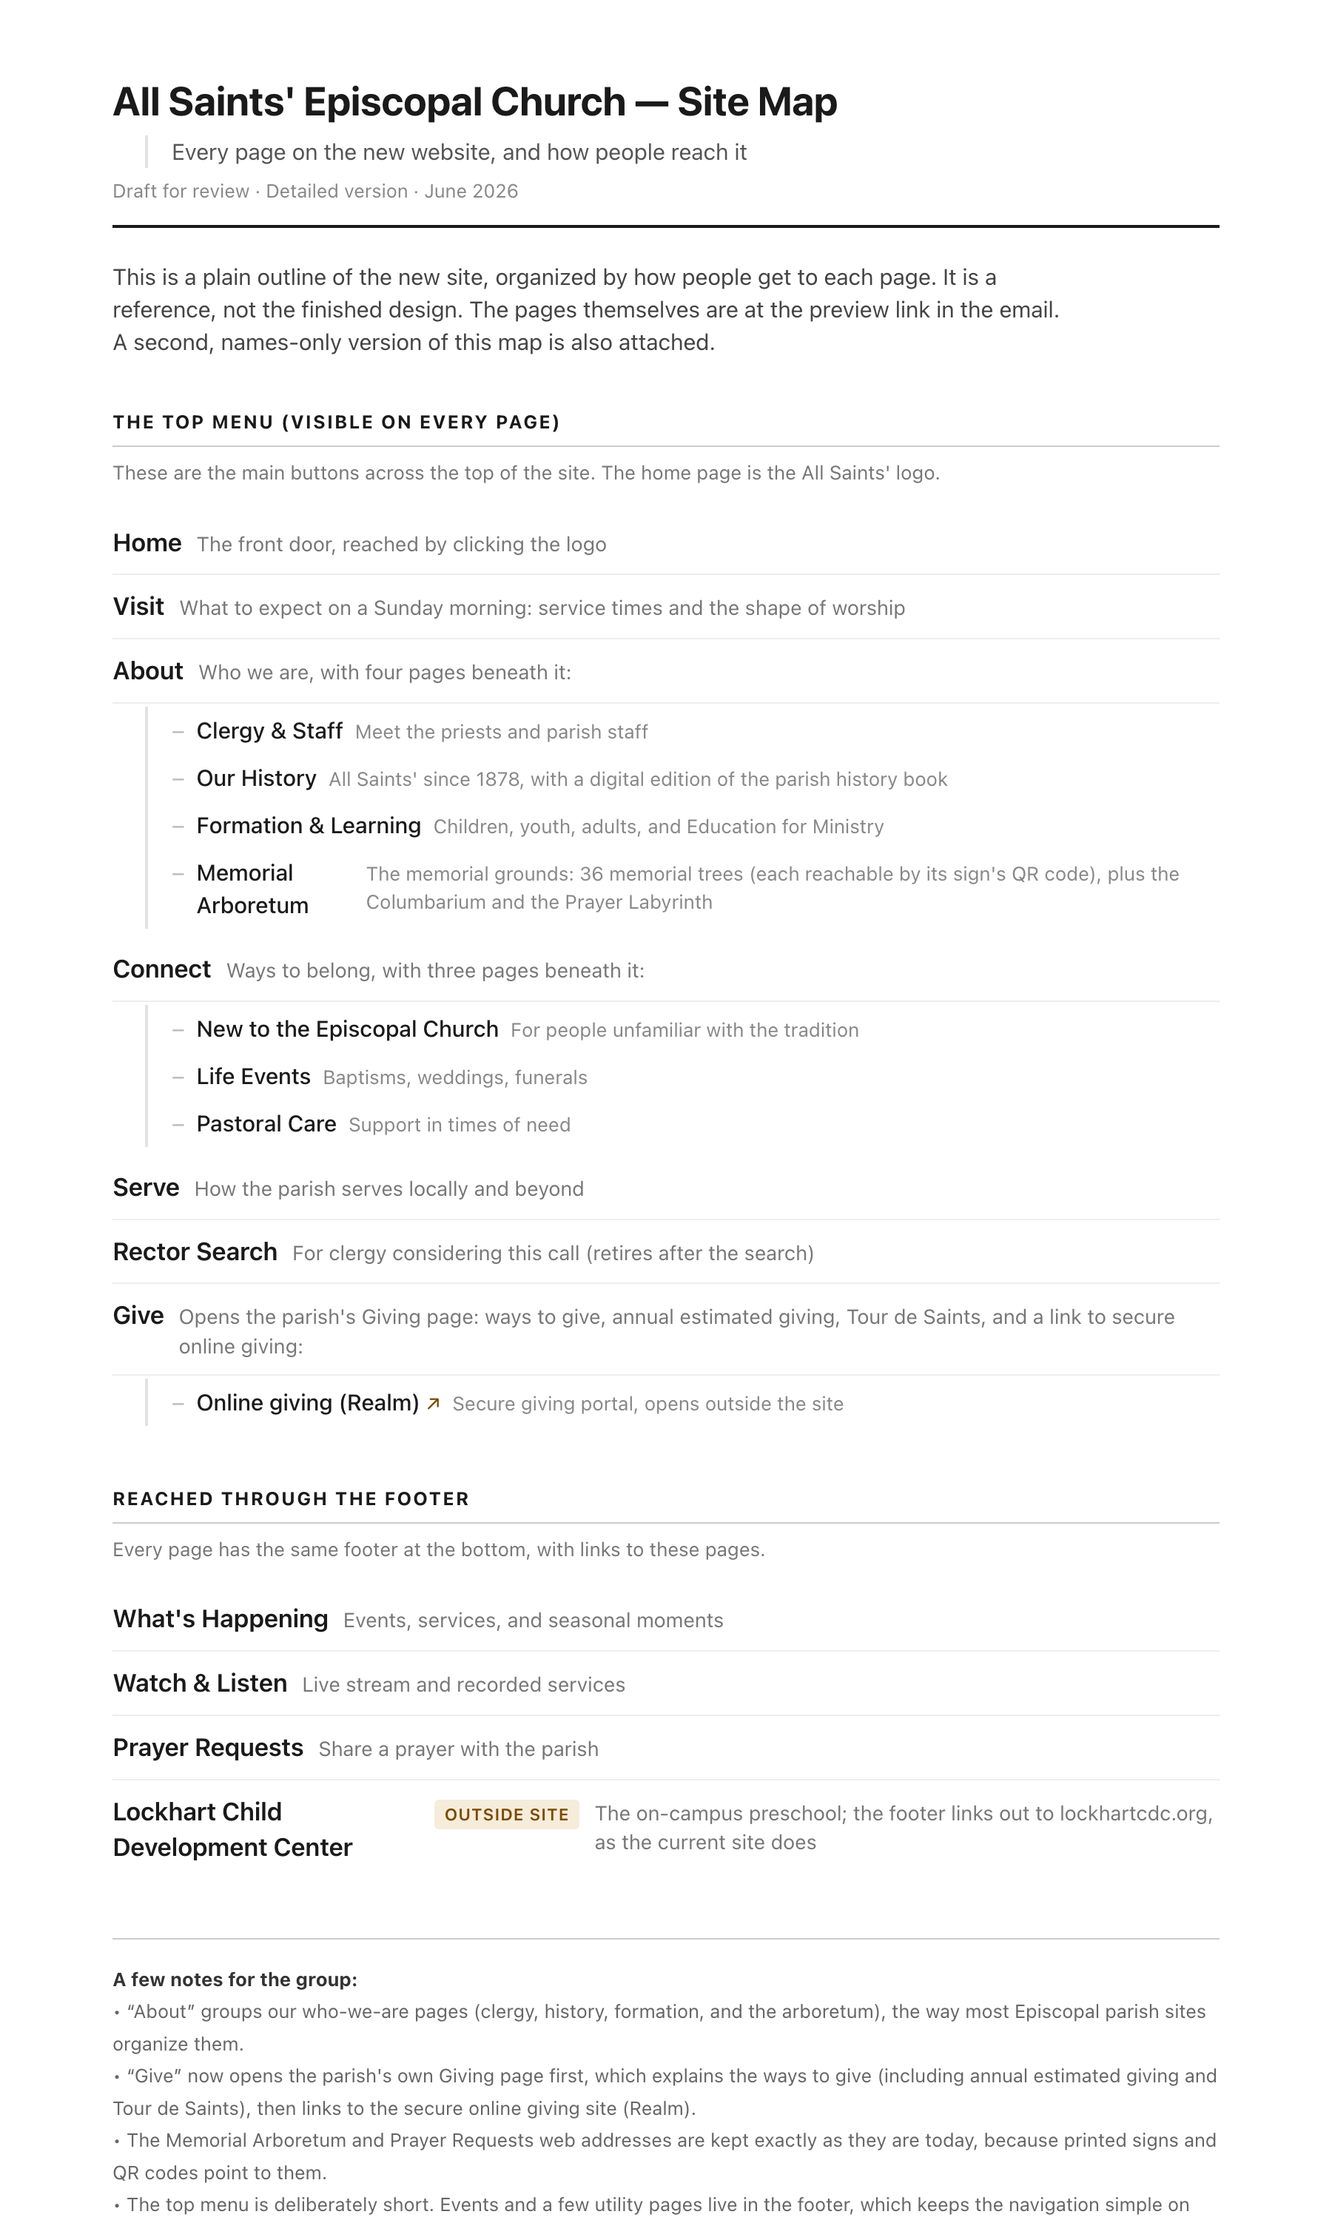
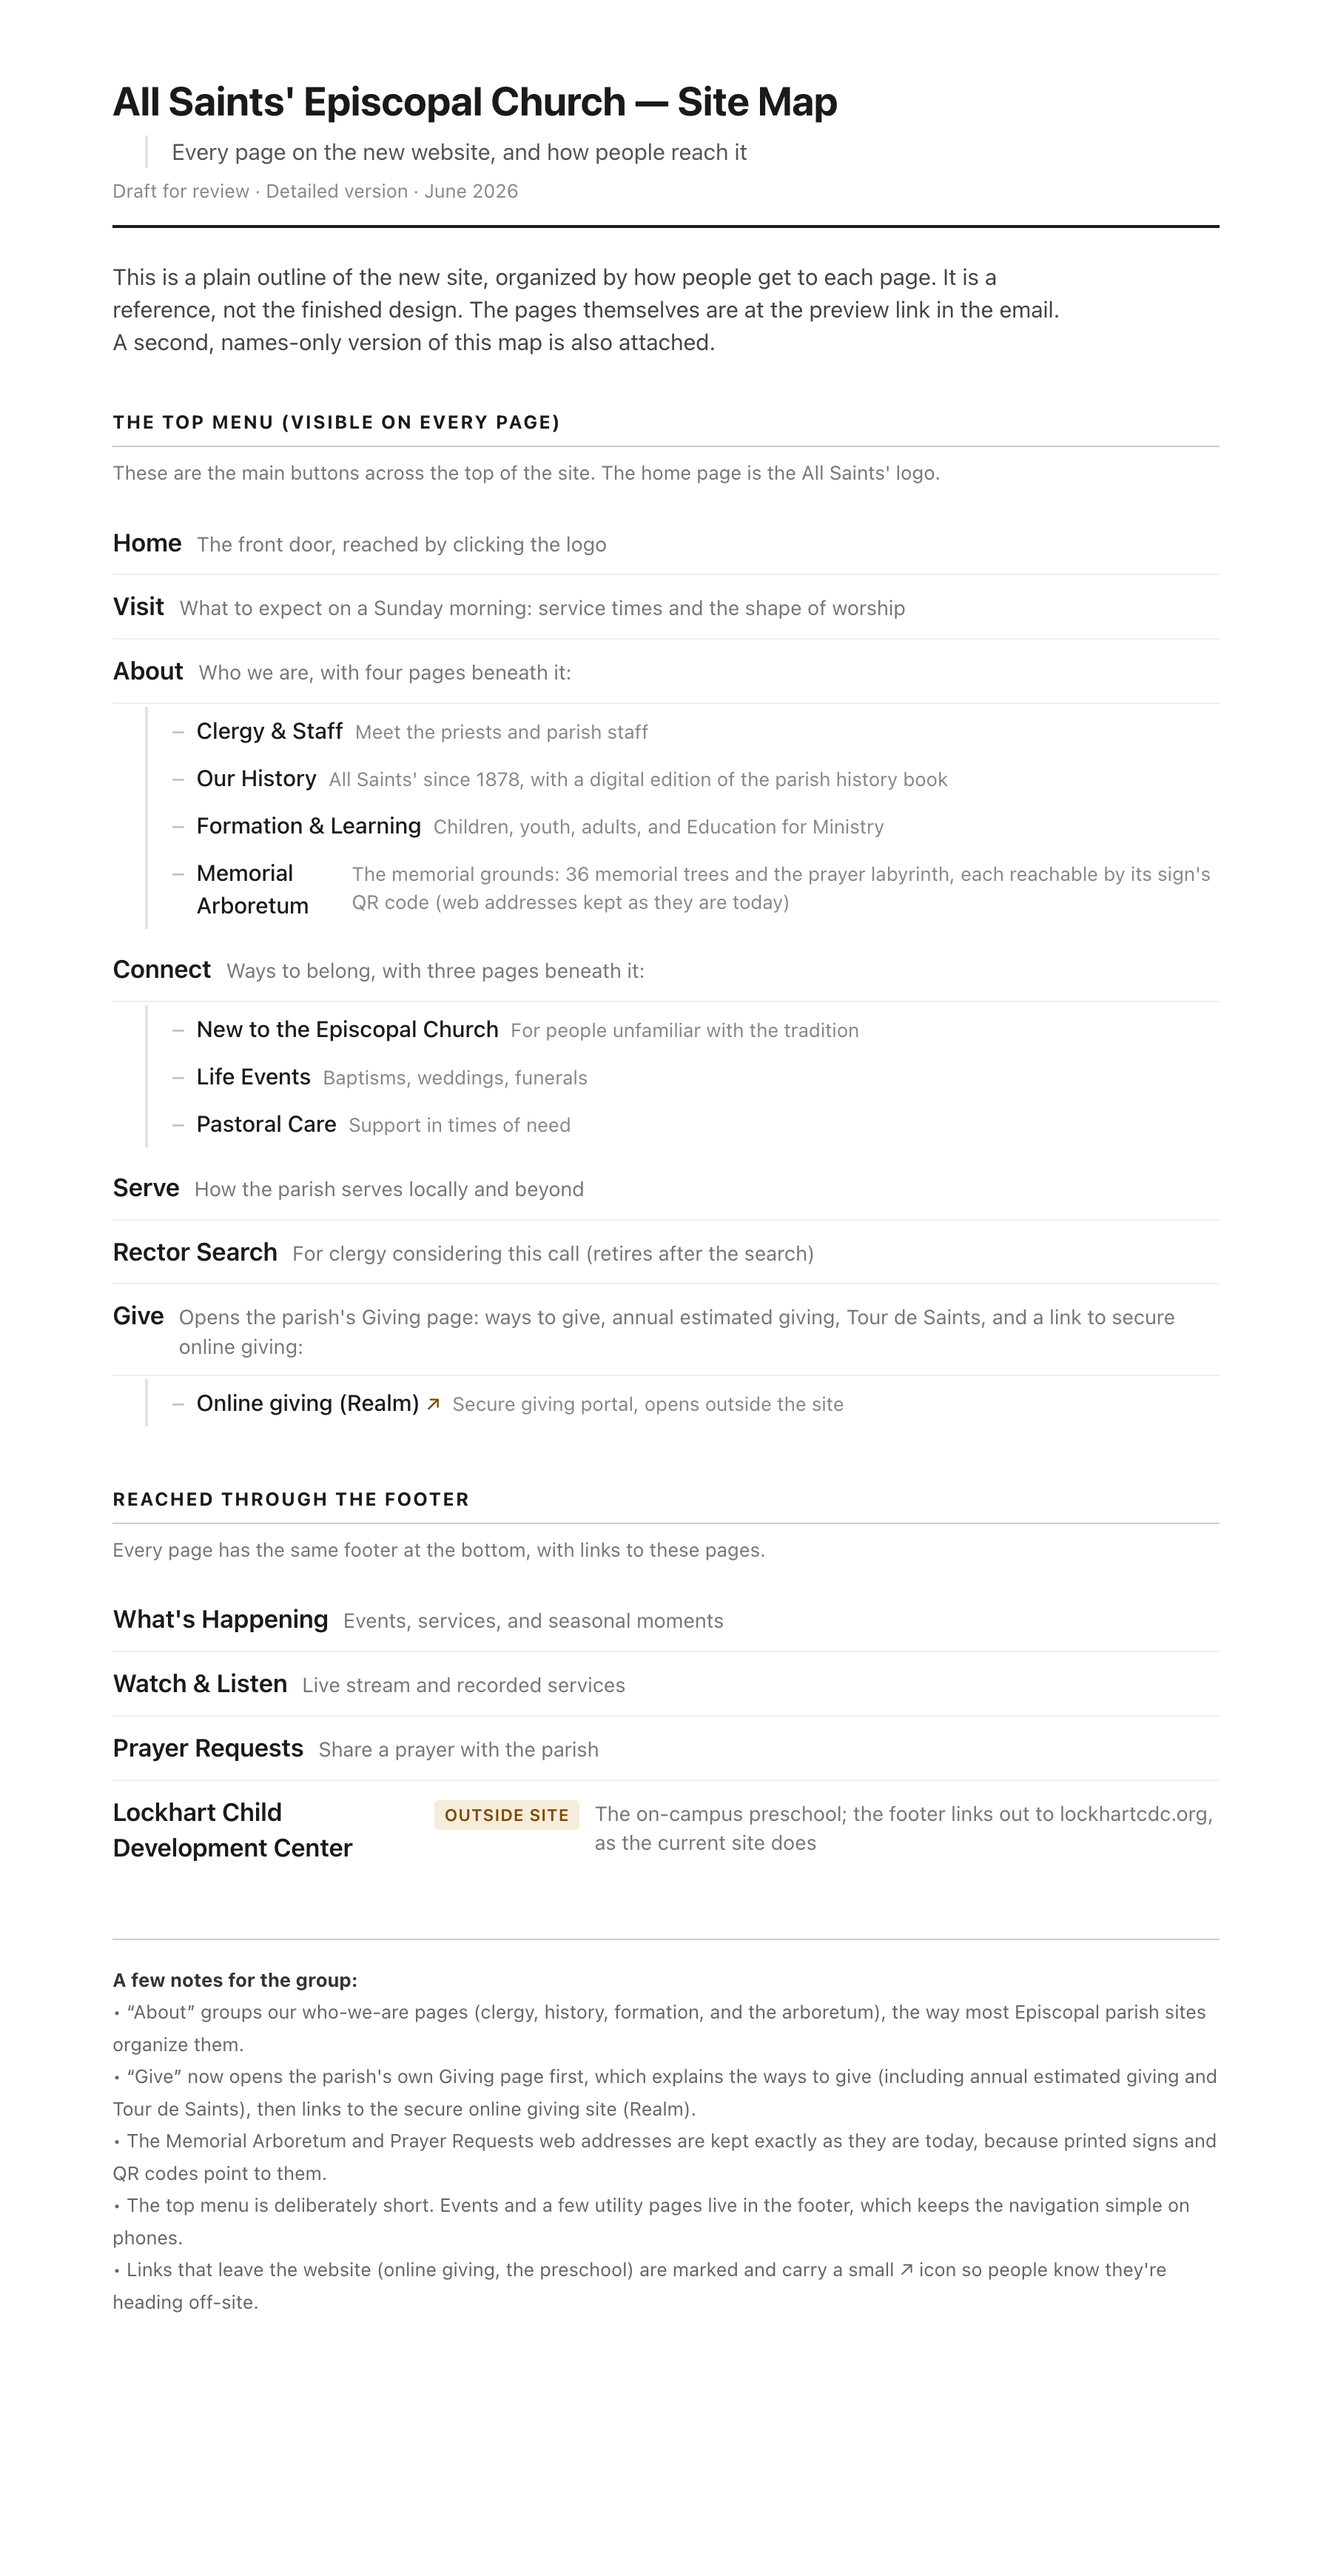
docs(sitemap): fix page-count framing + match current-site memorial structure
- Drop the asymmetric "+36 trees" note: the old 70 counts pages only
  (trees were WP posts), so both sides already exclude them. Clean 70->19
  with a footnote that the memorial pages carry over with preserved URLs.
- Match the current site: labyrinth is its own preserved-URL page under the
  Arboretum grounds; drop the columbarium (current site has no such page).
- Render taller so the detailed view's notes no longer clip.

Changed region(s): [[0.0933, 0.031, 0.9022, 1.0], [0.6222, 0.186, 0.6533, 0.217], [0.5289, 0.186, 0.56, 0.217]]

diff --git a/worker/public/sitemap-diagram-clean.html b/worker/public/sitemap-diagram-clean.html
@@ -78,7 +78,7 @@
       <div class="metric">
         <div class="label">Pages</div>
         <div class="nums"><span class="was">70</span><span class="arrow">&rarr;</span><span>19</span></div>
-        <div class="note">plus 36 memorial-tree pages, kept as-is</div>
+        <div class="note">simpler, with nothing essential lost</div>
       </div>
       <div class="metric">
         <div class="label">Main menu</div>
@@ -97,7 +97,7 @@
           <li>Clergy &amp; Staff</li>
           <li>Our History <span class="note">(with the parish history book)</span></li>
           <li>Formation &amp; Learning</li>
-          <li>Memorial Arboretum <span class="note">(with the Columbarium &amp; Labyrinth)</span></li>
+          <li>Memorial Arboretum <span class="note">(with the prayer labyrinth)</span></li>
         </ul>
         <li class="page"><span class="name">Connect</span></li>
         <ul class="sub">
@@ -123,6 +123,7 @@
 
     <div class="footnotes">
       <p>The old site had 70 pages and a menu of 41 links across eight dropdowns. The new site keeps every essential page, in six plain buttons with no dropdowns.</p>
+      <p>The 36 memorial-tree pages and the prayer labyrinth keep their exact web addresses (the printed QR codes and signs point to them), so they carry over unchanged and aren't part of the count above.</p>
     </div>
   </div>
 </body>

diff --git a/worker/public/sitemap-diagram.html b/worker/public/sitemap-diagram.html
@@ -101,7 +101,7 @@
           <li><span class="name">Clergy &amp; Staff</span><span class="desc">Meet the priests and parish staff</span></li>
           <li><span class="name">Our History</span><span class="desc">All Saints' since 1878, with a digital edition of the parish history book</span></li>
           <li><span class="name">Formation &amp; Learning</span><span class="desc">Children, youth, adults, and Education for Ministry</span></li>
-          <li><span class="name">Memorial Arboretum</span><span class="desc">The memorial grounds: 36 memorial trees (each reachable by its sign's QR code), plus the Columbarium and the Prayer Labyrinth</span></li>
+          <li><span class="name">Memorial Arboretum</span><span class="desc">The memorial grounds: 36 memorial trees and the prayer labyrinth, each reachable by its sign's QR code (web addresses kept as they are today)</span></li>
         </ul>
         <li class="page">
           <span class="name">Connect</span>
